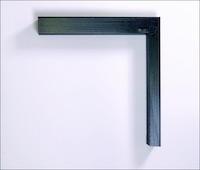
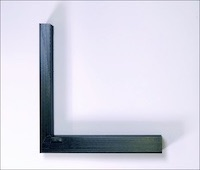
Deployed a353d23 with MkDocs version: 1.1

diff --git a/00.Build/bom/index.html b/00.Build/bom/index.html
@@ -760,11 +760,21 @@
 <tbody>
 <tr>
 <td align="left"><img alt="" src="../img/stl001.jpg" /></td>
-<td align="left">right_top.stl</td>
+<td align="left">right_bottom.stl</td>
 <td align="left">3D Printerで印刷</td>
 </tr>
 <tr>
 <td align="left"><img alt="" src="../img/stl002.jpg" /></td>
+<td align="left">left_bottom.stl</td>
+<td align="left">3D Printerで印刷</td>
+</tr>
+<tr>
+<td align="left"><img alt="" src="../img/stl003.jpg" /></td>
+<td align="left">right_top.stl</td>
+<td align="left">3D Printerで印刷</td>
+</tr>
+<tr>
+<td align="left"><img alt="" src="../img/stl004.jpg" /></td>
 <td align="left">left_top.stl</td>
 <td align="left">3D Printerで印刷</td>
 </tr>
